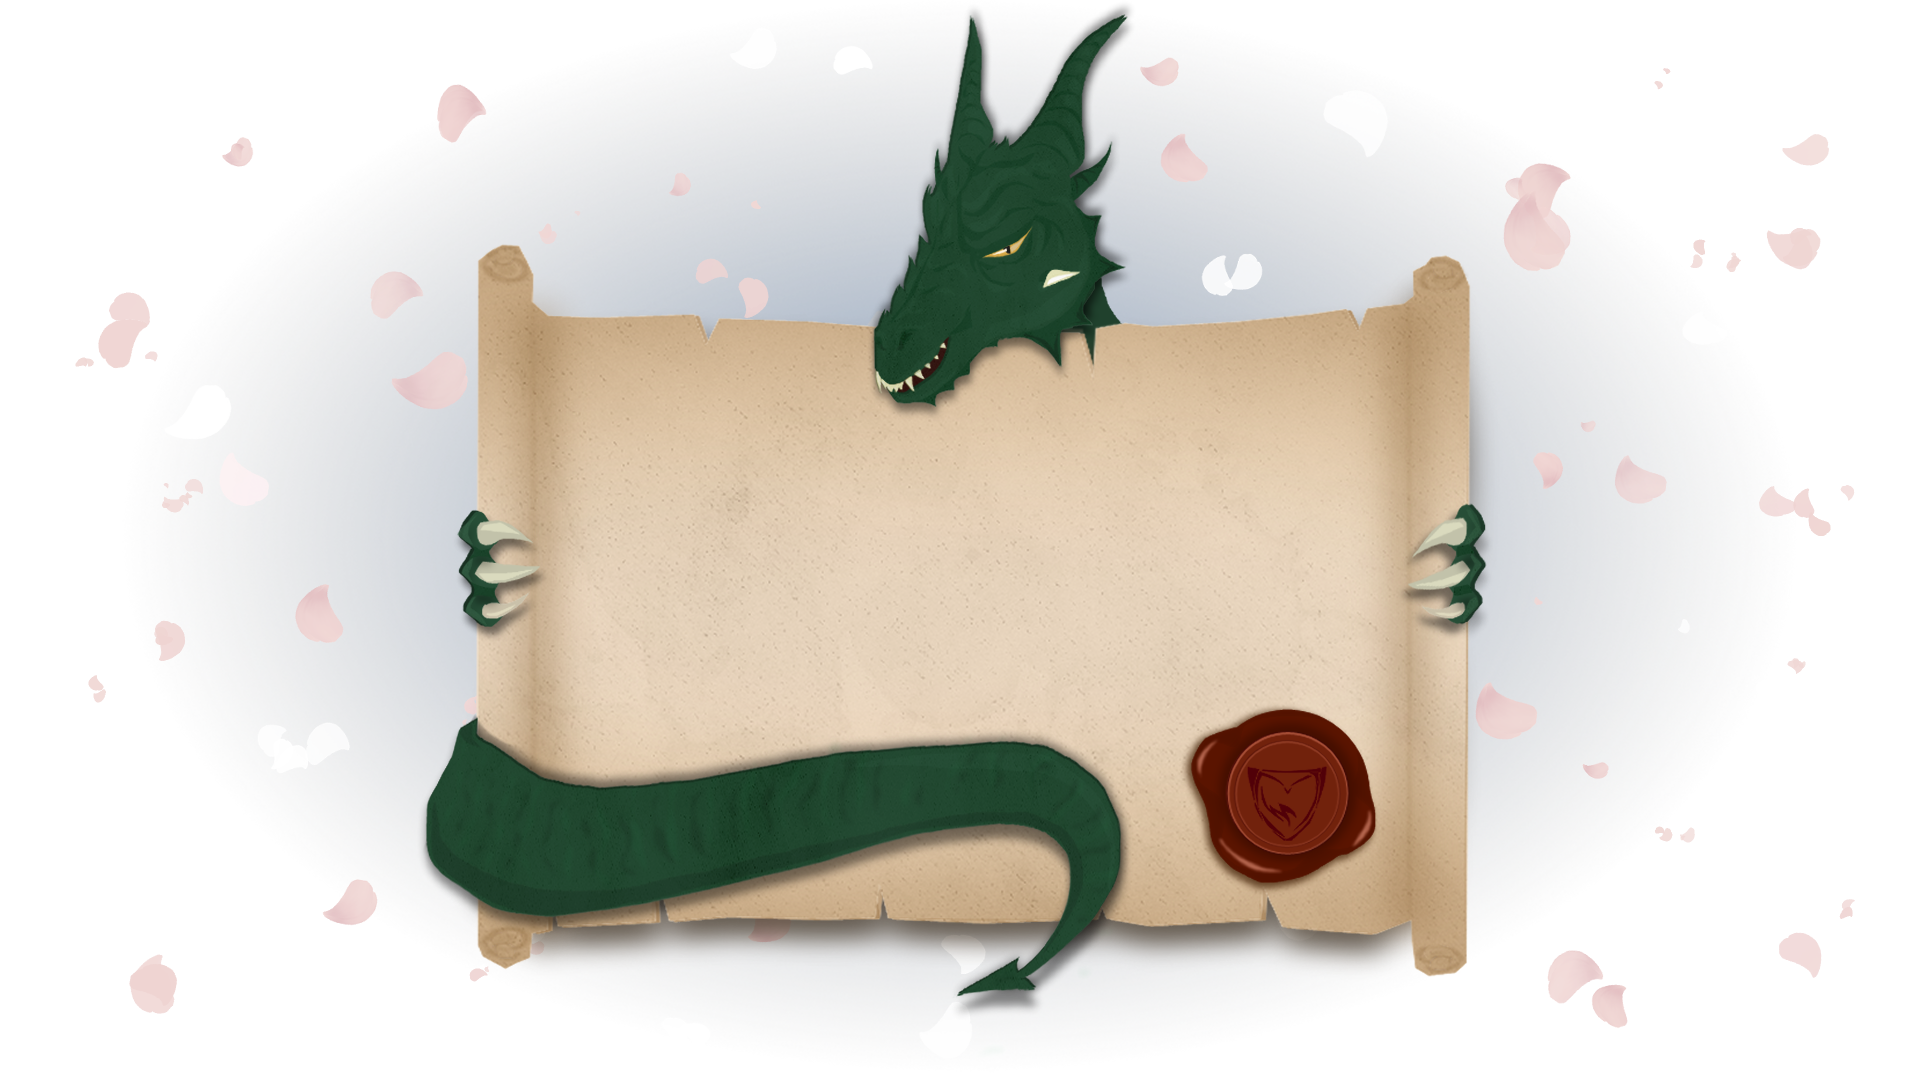
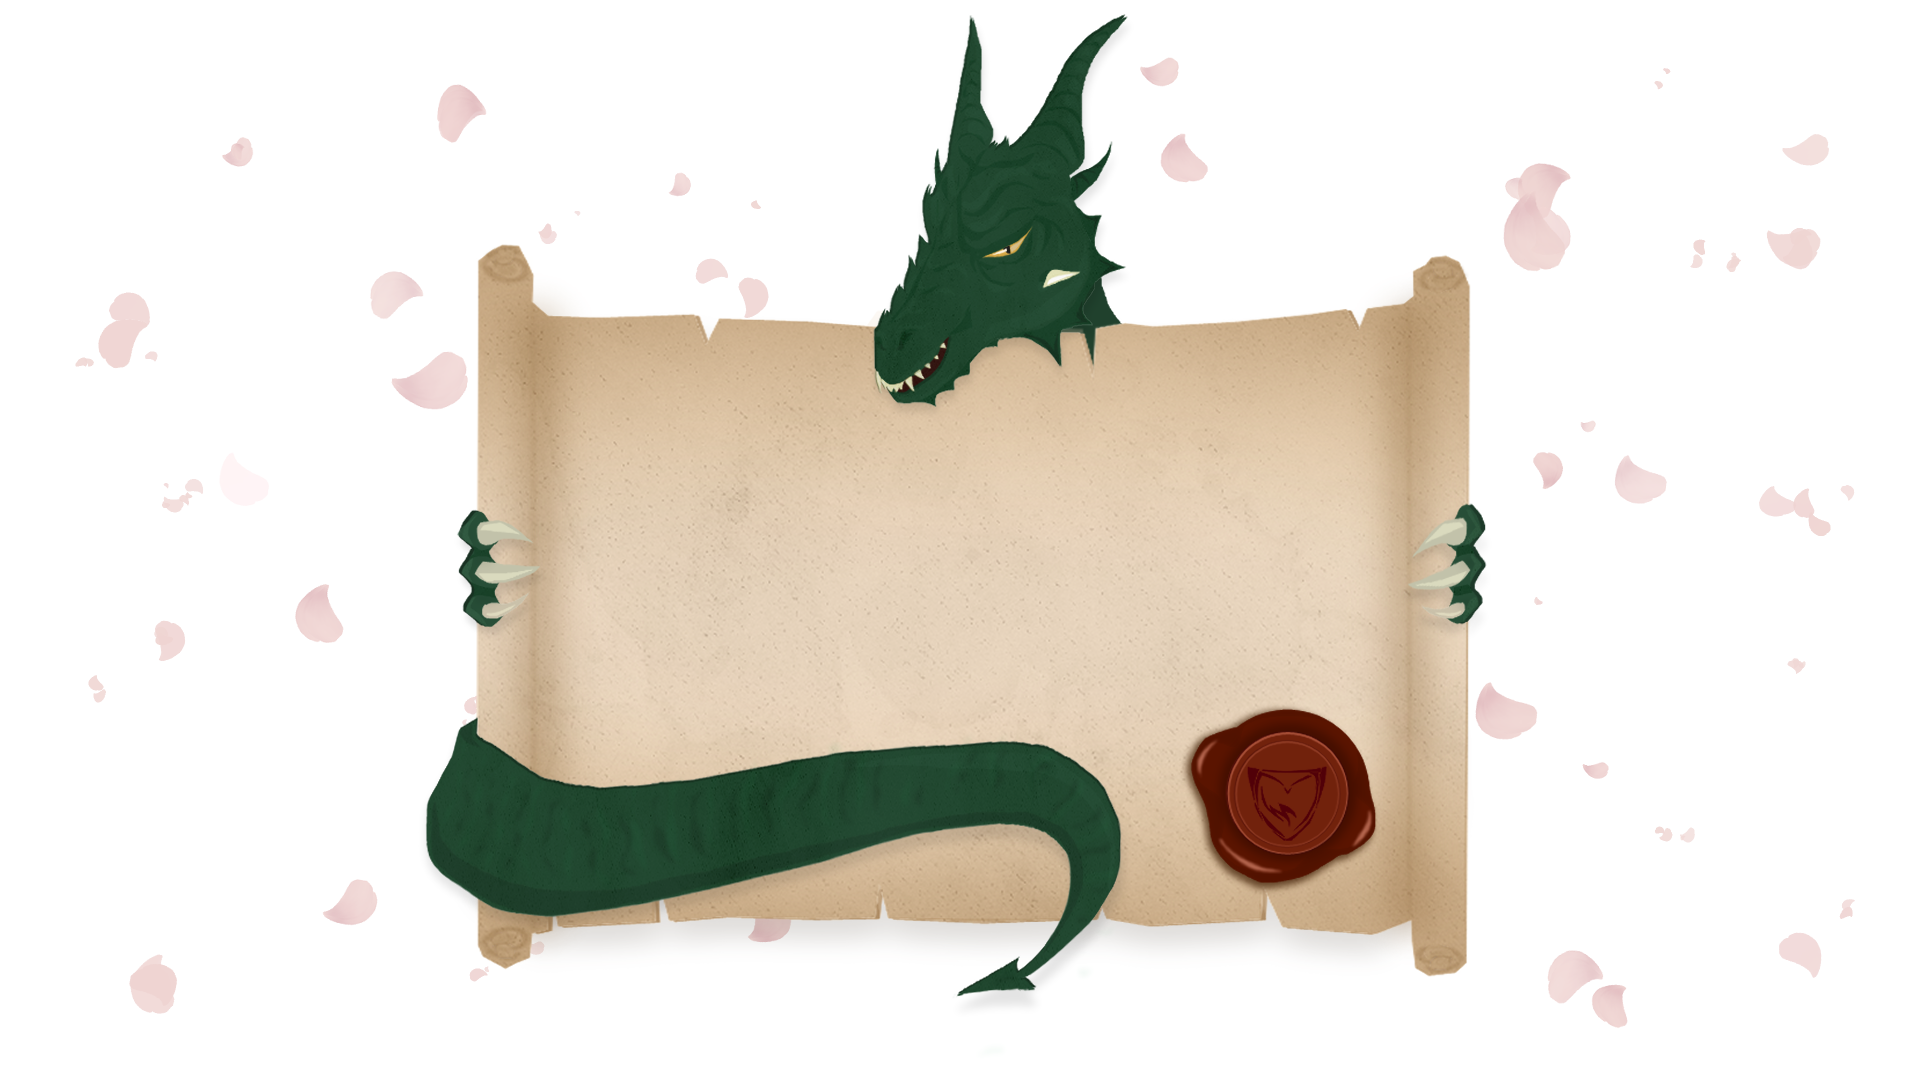
final version homepage
fixed pics in footer, updated footer, updated invitation picture (dragon), fixed font and spacing in navigation.

diff --git a/css/main.css b/css/main.css
@@ -73,6 +73,7 @@ body, html{
     top: 0;
     width: 100%;
     z-index: 1000;
+    height: 100px;
 }
 
 .navigation_width_setting {
@@ -103,15 +104,19 @@ body, html{
 }
 
 .menu-container a{
-    padding: 0 10px;
-    text-decoration: none;
+    padding: 0 30px;
+    text-decoration: underline;
+    font-family: 'Afacad';
     color: var(--menu_color_navigation);
     text-transform: uppercase;
-    
+    font-size: 24px;
+    font-weight: 400;
+    text-shadow: 1px 1px 0 black;
 }
 
 .clicked {
-    color: var(--clicked_color_navigation) !important
+    color: var(--clicked_color_navigation) !important;
+    font-weight: 700;
 }
 
 /*header area*/
@@ -151,6 +156,11 @@ body, html{
     left: 50%;
     transform: translate(-50%);
     padding-right: 15%;
+    text-shadow: 
+    -2px -2px 0 var(--white_color),
+     2px -2px 0 var(--white_color),
+    -2px  2px 0 var(--white_color),
+     2px  2px 0 var(--white_color);
 }
 
 .hero_text h2{
@@ -305,6 +315,11 @@ body, html{
     font-size: 48px;
     text-align: center;
     font-weight: 400;
+    text-shadow: 
+    -2px -2px 0 var(--white_color),
+     2px -2px 0 var(--white_color),
+    -2px  2px 0 var(--white_color),
+     2px  2px 0 var(--white_color);
 }
 
 /*video area*/
@@ -318,14 +333,11 @@ body, html{
     background-color: var(--menu_color_navigation);
     position: relative;
     width: 100%;
-}
-
-.footer_image img{
-    width: 100%;
-    display: block;
-    position: static;
+    background-image: url('../images/footer.png');
     background-size: cover;
-    background-position: center center;
+    background-position: center bottom;
+    background-repeat: no-repeat;
+    height: 450px;
 }
 
 .footer_info{
@@ -342,12 +354,16 @@ body, html{
 }
 
 .musikhuset {
+    height: 56px;
     max-height: 56px;
+    width: auto;
     grid-column: 1/3;
 }
 
 .skarn {
+    height: 45px;
     max-height: 45px;
+    width: auto;
     grid-column: 3/6;
 }
 

diff --git a/index.html b/index.html
@@ -27,10 +27,7 @@
                         </li>
                         <li>
                             <a href="">Tickets</a>
-                        </li>    
-                        <li>
-                            <a href="">Updates</a>
-                        </li>                                                           
+                        </li>                                                            
                     </ul>
                 </div>
             </div>    
@@ -78,7 +75,6 @@
     </body>
     <footer class="footer">
         <div class="footer_image">
-            <img src="images/footer.png">
             <div class="footer_info">
                 <img class="musikhuset" src="images/musikhuset.png">
                 <img class="skarn" src="images/SKARN22333.png">
